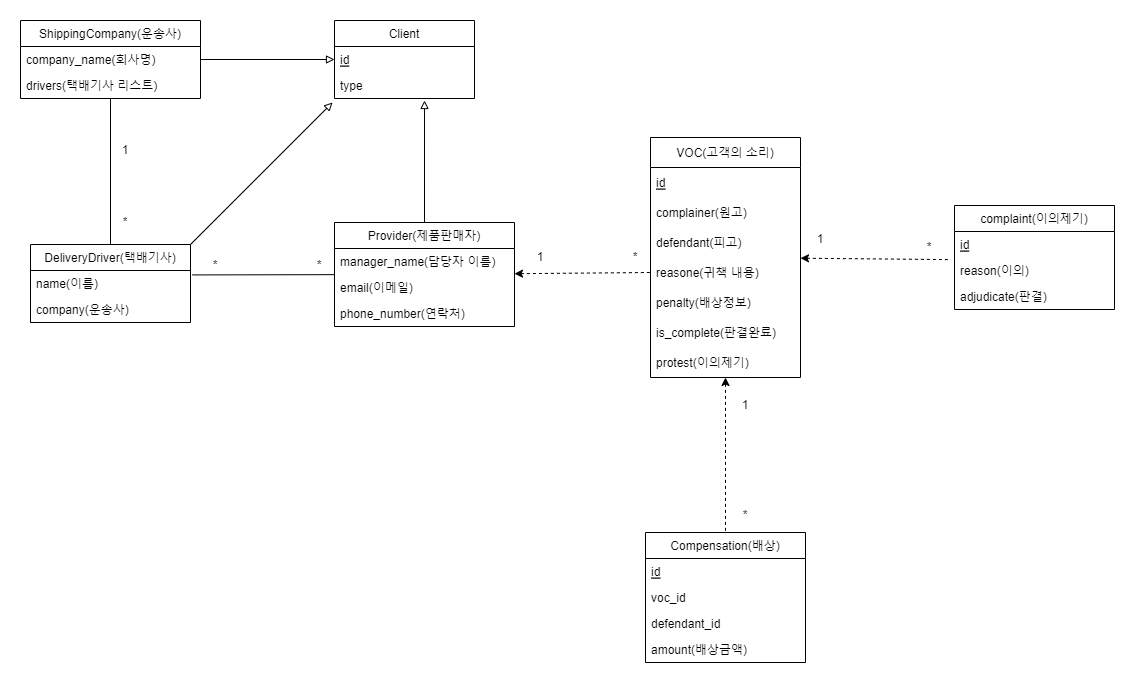
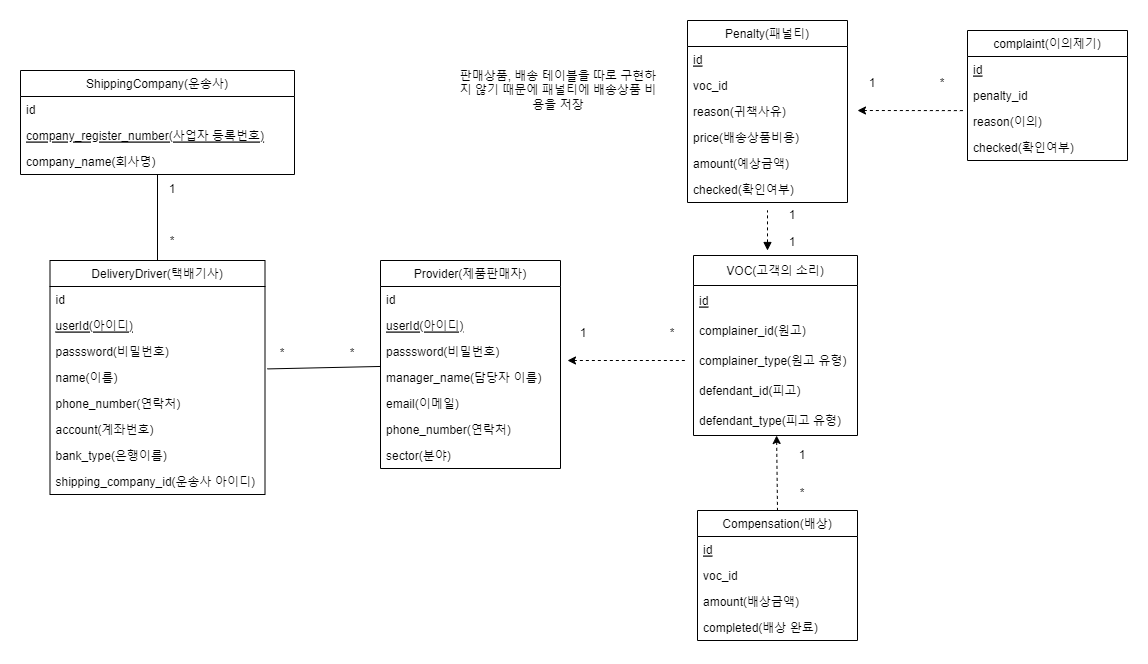
테스트 마무리

diff --git a/src/test/java/com/timf/teamfreash/TeamfreashApplicationTests.java b/src/test/java/com/timf/teamfreash/TeamfreashApplicationTests.java
@@ -2,6 +2,7 @@ package com.timf.teamfreash;
 
 import com.fasterxml.jackson.core.JsonProcessingException;
 import com.fasterxml.jackson.databind.ObjectMapper;
+import com.jayway.jsonpath.JsonPath;
 import com.timf.teamfreash.model.*;
 import com.timf.teamfreash.model.type.BankType;
 import com.timf.teamfreash.model.type.ClientType;
@@ -16,8 +17,11 @@ import org.springframework.beans.factory.annotation.Autowired;
 import org.springframework.boot.test.autoconfigure.web.servlet.AutoConfigureMockMvc;
 import org.springframework.boot.test.context.SpringBootTest;
 import org.springframework.http.MediaType;
+import org.springframework.http.ResponseEntity;
+import org.springframework.mock.web.MockHttpServletResponse;
 import org.springframework.test.context.junit.jupiter.SpringExtension;
 import org.springframework.test.web.servlet.MockMvc;
+import org.springframework.test.web.servlet.MvcResult;
 import org.springframework.test.web.servlet.ResultActions;
 import org.springframework.test.web.servlet.request.MockMvcRequestBuilders;
 import org.springframework.test.web.servlet.result.MockMvcResultHandlers;
@@ -40,23 +44,28 @@ class TeamfreashApplicationTests {
 
     private static final Logger logger = LoggerFactory.getLogger(TeamfreashApplicationTests.class);
 
-    @Autowired
+
     private MockMvc mockMvc;
-    @Autowired
     private ObjectMapper objectMapper;
 
-    @Autowired
     private ShippingCompanyService shippingCompanyService;
-    @Autowired
     private DeliveryDriverService deliveryDriverService;
-    @Autowired
     private ProviderService providerService;
-    @Autowired
     private VOCService vocService;
-    @Autowired
     private CompensationService compensationService;
-    @Autowired
     private PenaltyService penaltyService;
+
+    @Autowired
+    public TeamfreashApplicationTests(MockMvc mockMvc, ObjectMapper objectMapper, ShippingCompanyService shippingCompanyService, DeliveryDriverService deliveryDriverService, ProviderService providerService, VOCService vocService, CompensationService compensationService, PenaltyService penaltyService) {
+        this.mockMvc = mockMvc;
+        this.objectMapper = objectMapper;
+        this.shippingCompanyService = shippingCompanyService;
+        this.deliveryDriverService = deliveryDriverService;
+        this.providerService = providerService;
+        this.vocService = vocService;
+        this.compensationService = compensationService;
+        this.penaltyService = penaltyService;
+    }
 
     private List<ShippingCompany> shippingCompanyList = new ArrayList<>();
     private List<DeliveryDriver> deliveryDriverList = new ArrayList<>();
@@ -106,24 +115,71 @@ class TeamfreashApplicationTests {
     @DisplayName("배상 시나리오 테스트:즉시수락")
     @Transactional
     public void compensation_scenario_accept() throws Exception {
-        // given(준비)
 
+        // 1. 고객사에서 배상을 청구(기사님 귀책) -> VOC & Penalty 생성
+        // given(준비)
+        logger.info("======= 1. 고객사에서 배상을 청구(기사님 귀책) Start =======");
+        Map<String, String> input = new HashMap<>();
+        input.put("complainerId", Long.toString(providerList.get(0).getId()));
+        input.put("complainerType", "Provider");
+        input.put("defendantId", Long.toString(deliveryDriverList.get(0).getId()));
+        input.put("defendantType", "DeliveryDriver");
+        input.put("reason", "배송지연");
 
         // when(실행)
-        // 1. 고객사에서 배상을 청구(기사님 귀책) -> VOC생성
-        ResultActions response = mockMvc.perform(MockMvcRequestBuilders.post("/voc"));
+        ResultActions response = mockMvc.perform(MockMvcRequestBuilders.post("/voc")
+                .contentType(MediaType.APPLICATION_JSON)
+                .content(objectMapper.writeValueAsString(input)));
+        // then(검증)
+        response.andExpect(MockMvcResultMatchers.status().isCreated())
+                .andDo(MockMvcResultHandlers.print());
+
+        logger.info("======= 1. 고객사에서 배상을 청구(기사님 귀책) End =======");
 
         // 2. 기사님이 APP에서 확인하시고, 본인의 귀책을 인정하고 사인을 함(이의제기x)
-        ResultActions response2 = mockMvc.perform(MockMvcRequestBuilders.get("/penalty/accept"));
+        // 만약 이의제기 할 경우 패널티와 일대다로 연결되는 이의제기 테이블에 이의생성 -> 중개인을 통해 합의(따로 구현 x)
+        logger.info("======= 2. 기사님이 APP에서 확인하시고, 본인의 귀책을 인정하고 사인을 함(이의제기x) Start =======");
+        // given
+        long defendantId = deliveryDriverList.get(0).getId(); // 기사님id기준 APP에서 첫번째에 있는 패널티 수락한다 가정
+        ResultActions resultActions = mockMvc.perform(MockMvcRequestBuilders.get(String.format("/penalty/%d", defendantId)));
+        MvcResult result = resultActions.andReturn();
+        int penaltyId = JsonPath.read(result.getResponse().getContentAsString(), "$[0].id");
+        // when
+        ResultActions response2 = mockMvc.perform(MockMvcRequestBuilders.post(String.format("/penalty/accept/%d", penaltyId)));
         // ResultActions response2 = mockMvc.perform(MockMvcRequestBuilders.get("/penalty/protest"));
 
+        // then
+        response2.andExpect(MockMvcResultMatchers.status().isAccepted())
+                .andExpect(MockMvcResultMatchers.jsonPath("$.reason").value(equalTo("배송지연")))
+                .andExpect(MockMvcResultMatchers.jsonPath("$.price").value(equalTo(50000)))
+                .andExpect(MockMvcResultMatchers.jsonPath("$.amount").value(equalTo(-10000)))
+                .andExpect(MockMvcResultMatchers.jsonPath("$.checked").value(equalTo(true)))
+                .andDo(MockMvcResultHandlers.print());
+        logger.info("======= 2. 기사님이 APP에서 확인하시고, 본인의 귀책을 인정하고 사인을 함(이의제기x) End =======");
+
         // 3. 배상 금액만큼 배상 시스템에 포함되고, 그 금액만큼 기사님의 월급 차감
+        // 월급 관련 테이블이 없기때문에 따로 월급 차감은 관련 로직은 따로 구현 x
+        logger.info("======= 3. 배상 금액만큼 배상 시스템에 포함되고, 그 금액만큼 기사님의 월급 차감 Start =======");
+        // given
+        int vocId = JsonPath.read(result.getResponse().getContentAsString(), "$[0].voc_id");
 
-        // then(검증)
-        response.andExpect(MockMvcResultMatchers.status().isOk());
+        // when
+        Map<String, String> inputCompensation = new HashMap<>();
+        input.put("complainerId", Long.toString(providerList.get(0).getId()));
+        ResultActions response3 = mockMvc.perform(MockMvcRequestBuilders.post(String.format("/compensation/penalty/%d", vocId)) // 패널티에서 정해진 보상금액만큼 적용
+                            .contentType(MediaType.APPLICATION_JSON)
+                            .content(objectMapper.writeValueAsString(inputCompensation)));
+        // ResultActions response3 = mockMvc.perform(MockMvcRequestBuilders.post(String.format("/compensation/%d", vocId))); // 이때는 보상금액을 따로 설정가능
+        // then
+        response3.andExpect(MockMvcResultMatchers.status().isCreated())
+                .andExpect(MockMvcResultMatchers.jsonPath("$.amount").value(equalTo(-10000)))
+                .andExpect(MockMvcResultMatchers.jsonPath("$.complete").value(equalTo(false)))
+                .andDo(MockMvcResultHandlers.print());
+        logger.info("======= 3. 배상 금액만큼 배상 시스템에 포함되고, 그 금액만큼 기사님의 월급 차감 End =======");
 
-
-
+        List<VOC> remainVocList = vocService.getAllVOC();
+        for(VOC voc: remainVocList)
+            vocList.add(voc);
     }
 
     @Test
@@ -136,8 +192,6 @@ class TeamfreashApplicationTests {
         input.put("defendantId", Long.toString(deliveryDriverList.get(0).getId()));
         input.put("defendantType", "DeliveryDriver");
         input.put("reason", "배송지연");
-
-        vocService.createVOC(new VOC(providerList.get(0).getId(), ClientType.Provider, deliveryDriverList.get(0).getId(), ClientType.DeliveryDriver), IssueType.배송지연);
 
         // when
         ResultActions response = mockMvc.perform(MockMvcRequestBuilders.post("/voc")
@@ -210,8 +264,8 @@ class TeamfreashApplicationTests {
                 .content(objectMapper.writeValueAsString(input)));
         // then
         response.andExpect(MockMvcResultMatchers.status().isCreated())
-                .andExpect(MockMvcResultMatchers.jsonPath("$.voc_id").value(equalTo(voc.getId()))) // json반환타입이랑 long타입 어캐비교하징?
-                .andExpect(MockMvcResultMatchers.jsonPath("$.amount").value(equalTo(-20000L)))
+                .andExpect(MockMvcResultMatchers.jsonPath("$.voc_id").value(equalTo(Math.toIntExact(voc.getId()))))
+                .andExpect(MockMvcResultMatchers.jsonPath("$.amount").value(equalTo(-20000)))
                 .andExpect(MockMvcResultMatchers.jsonPath("$.complete").value(equalTo(false)))
                 .andDo(MockMvcResultHandlers.print());
     }
@@ -237,7 +291,7 @@ class TeamfreashApplicationTests {
 
         // then
         response.andExpect(MockMvcResultMatchers.status().isOk())
-                .andExpect(MockMvcResultMatchers.jsonPath("$[0].voc_id").value(equalTo(voc1.getId())))
+                .andExpect(MockMvcResultMatchers.jsonPath("$[0].voc_id").value(equalTo(Math.toIntExact(voc1.getId()))))
                 .andExpect(MockMvcResultMatchers.jsonPath("$[0].amount").value(equalTo(-5000)))
                 .andExpect(MockMvcResultMatchers.jsonPath("$[0].complete").value(equalTo(false)))
                 .andDo(MockMvcResultHandlers.print());

diff --git a/src/main/java/com/timf/teamfreash/controller/PenaltyController.java b/src/main/java/com/timf/teamfreash/controller/PenaltyController.java
@@ -1,0 +1,44 @@
+package com.timf.teamfreash.controller;
+
+import com.timf.teamfreash.model.Penalty;
+import com.timf.teamfreash.model.dto.PenaltyDto;
+import com.timf.teamfreash.service.PenaltyService;
+import org.springframework.beans.factory.annotation.Autowired;
+import org.springframework.http.HttpStatus;
+import org.springframework.http.ResponseEntity;
+import org.springframework.web.bind.annotation.*;
+
+import java.util.List;
+import java.util.stream.Collectors;
+
+@RestController
+@RequestMapping("/penalty")
+public class PenaltyController {
+
+    private PenaltyService penaltyService;
+
+    @Autowired
+    public PenaltyController(PenaltyService penaltyService) {
+        this.penaltyService = penaltyService;
+    }
+
+    @GetMapping("")
+    public ResponseEntity<List<PenaltyDto>> showPenaltyList() {
+        List<Penalty> penaltyList = penaltyService.getAllPenalty();
+        List<PenaltyDto> penaltyDtoList = penaltyList.stream().map(PenaltyDto::from).collect(Collectors.toList());
+        return new ResponseEntity<>(penaltyDtoList, HttpStatus.OK);
+    }
+
+    @GetMapping("/{defendant_id}")
+    public ResponseEntity<List<PenaltyDto>> showPenaltyListForDefendant(@PathVariable long defendant_id) {
+        List<Penalty> penaltyList = penaltyService.getDefendantPenalty(defendant_id);
+        List<PenaltyDto> penaltyDtoList = penaltyList.stream().map(PenaltyDto::from).collect(Collectors.toList());
+        return new ResponseEntity<>(penaltyDtoList, HttpStatus.OK);
+    }
+
+    @PostMapping("/accept/{penalty_id}")
+    public ResponseEntity<PenaltyDto> checkedPenalty(@PathVariable long penalty_id) {
+        Penalty penalty = penaltyService.setPenaltyChecked(penalty_id, true);
+        return new ResponseEntity<>(PenaltyDto.from(penalty), HttpStatus.ACCEPTED);
+    }
+}

diff --git a/src/main/java/com/timf/teamfreash/service/PenaltyService.java b/src/main/java/com/timf/teamfreash/service/PenaltyService.java
@@ -11,6 +11,8 @@ import org.springframework.beans.factory.annotation.Autowired;
 import org.springframework.stereotype.Service;
 import org.springframework.transaction.annotation.Transactional;
 
+import java.util.List;
+
 @Service
 public class PenaltyService {
     private PenaltyRepo penaltyRepo;
@@ -32,6 +34,14 @@ public class PenaltyService {
     public Penalty getPenaltyById(long id) {
         return penaltyRepo.findById(id).orElseThrow(() ->
                 new PenaltyNotFoundException(id));
+    }
+
+    public List<Penalty> getAllPenalty() {
+        return penaltyRepo.findAll();
+    }
+
+    public List<Penalty> getDefendantPenalty(long defendantId) {
+        return penaltyRepo.findAllByVocDefendantId(defendantId);
     }
 
     public Penalty setPenaltyChecked(long id, boolean checked) {

diff --git a/src/main/java/com/timf/teamfreash/model/dto/CompensationDto.java b/src/main/java/com/timf/teamfreash/model/dto/CompensationDto.java
@@ -1,11 +1,13 @@
 package com.timf.teamfreash.model.dto;
 
+import com.fasterxml.jackson.annotation.JsonProperty;
 import com.timf.teamfreash.model.Compensation;
 import com.timf.teamfreash.model.type.IssueType;
 import lombok.Data;
 
 @Data
 public class CompensationDto {
+    @JsonProperty(access = JsonProperty.Access.READ_ONLY)
     private Long id;
     private Long voc_id;
     private Long amount;

diff --git a/src/main/java/com/timf/teamfreash/repository/PenaltyRepo.java b/src/main/java/com/timf/teamfreash/repository/PenaltyRepo.java
@@ -4,6 +4,10 @@ import com.timf.teamfreash.model.Penalty;
 import org.springframework.data.repository.CrudRepository;
 import org.springframework.stereotype.Repository;
 
+import java.util.List;
+
 @Repository
 public interface PenaltyRepo extends CrudRepository<Penalty, Long> {
+    List<Penalty> findAll();
+    List<Penalty> findAllByVocDefendantId(long defendantId);
 }

diff --git a/src/main/java/com/timf/teamfreash/model/DeliveryDriver.java b/src/main/java/com/timf/teamfreash/model/DeliveryDriver.java
@@ -13,7 +13,7 @@ public class DeliveryDriver {
     @Id @GeneratedValue(strategy = GenerationType.IDENTITY)
     @Column(name = "id")
     private long id;
-    @Column(name = "user_id")
+    @Column(name = "user_id", unique = true)
     private String userId;
     @Column(name = "password")
     private String password;

diff --git a/src/main/java/com/timf/teamfreash/model/Provider.java b/src/main/java/com/timf/teamfreash/model/Provider.java
@@ -13,7 +13,7 @@ public class Provider {
     @Id @GeneratedValue(strategy = GenerationType.IDENTITY)
     @Column(name = "id")
     private long id;
-    @Column(name = "user_id")
+    @Column(name = "user_id", unique = true)
     private String userId;
     @Column(name = "password")
     private String password;

diff --git a/README.md b/README.md
@@ -4,6 +4,10 @@
 ![테이블 스키마](images/table_schema.png)
 
 ## 클래스 다이어그램
+![클래스 다이어그램](images/class_diagram.png)
+
+## 환경
+Window 11, Intellij, Java8, Spring boot 2.7.1, MariaDB 10.6
 
 ## 사전 세팅
 ### 한글&이모지 charset 관련 설정
@@ -23,6 +27,10 @@ alter database teamfreash default character set = utf8mb4;
 
 ### application.properties 파일
 mariadb 아이디, 비밀번호 설정
+
+## 테스트
+`TeamfreashApplicationTests`에 테스트케이스 작성(참고해주세요~)
+
 
 ## 구현해야할 API
 * VOC 목록 API
@@ -77,3 +85,8 @@ mariadb 아이디, 비밀번호 설정
 ## 기타
 * VOC, 패널티, 배상 정보 등을 위한 운송사 정보(운송사, 기사, 정보 등), 고객사 정보(고객사 및 고객사 담당자 정보, 연락처 등),
 * 귀책 당사자는 고객사/운송사 2개 코드를 해야함
+
+## 개선할꺼
+* 테스트할때 json 반환 숫자랑 long자료형이랑 비교 어캐하는지 모르겠음
+* request, response할때 쓰는 객체를 따라 만드는게 좋을듯
+* VOC에 Client의 id랑 type을 받아서 구분하는데 뭔가 더 깔끔하게 짜는방법이 있을거같다 전략적패턴 비슷하게 해보려했는데 잘안됐다
